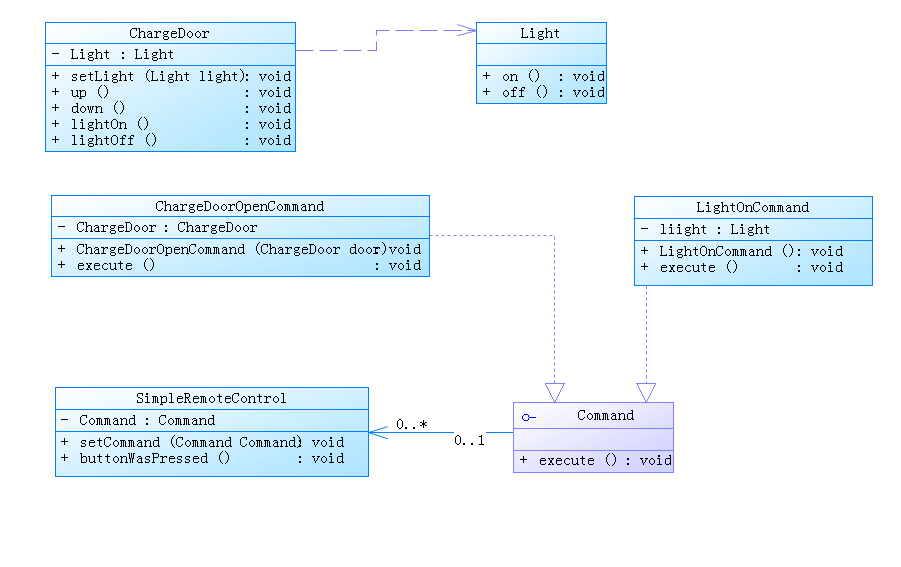
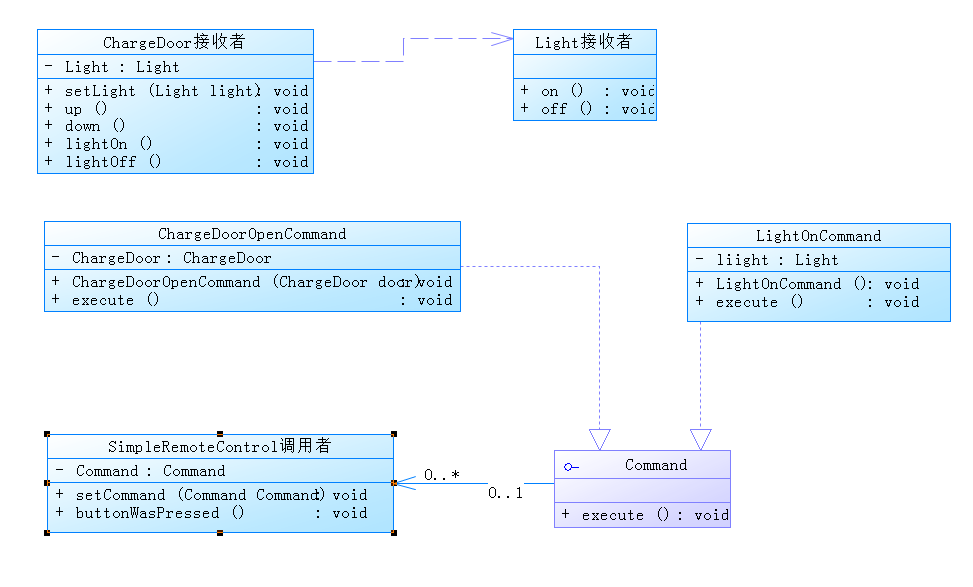
2017-7-12

diff --git a/src/designPattern/headfirst/chapter_06Command/anExample/RemoteControllerTest.java b/src/designPattern/headfirst/chapter_06Command/anExample/RemoteControllerTest.java
@@ -1,9 +1,9 @@
 package designPattern.headfirst.chapter_06Command.anExample;
 
-import designPattern.headfirst.chapter_06Command.anExample.client.ChargeDoor;
-import designPattern.headfirst.chapter_06Command.anExample.client.Light;
 import designPattern.headfirst.chapter_06Command.anExample.command.ChargeDoorOpenCommand;
 import designPattern.headfirst.chapter_06Command.anExample.command.LightOnCommand;
+import designPattern.headfirst.chapter_06Command.anExample.receiver.ChargeDoor;
+import designPattern.headfirst.chapter_06Command.anExample.receiver.Light;
 
 public class RemoteControllerTest {
 	public static void main(String[] args) {

diff --git a/src/designPattern/headfirst/chapter_06Command/anExample/command/ChargeDoorOpenCommand.java b/src/designPattern/headfirst/chapter_06Command/anExample/command/ChargeDoorOpenCommand.java
@@ -1,6 +1,6 @@
 package designPattern.headfirst.chapter_06Command.anExample.command;
 
-import designPattern.headfirst.chapter_06Command.anExample.client.ChargeDoor;
+import designPattern.headfirst.chapter_06Command.anExample.receiver.ChargeDoor;
 
 public class ChargeDoorOpenCommand implements Command {
 	ChargeDoor door;

diff --git a/src/designPattern/headfirst/chapter_06Command/anExample/SimpleRemoteControl.java b/src/designPattern/headfirst/chapter_06Command/anExample/SimpleRemoteControl.java
@@ -1,7 +1,12 @@
 package designPattern.headfirst.chapter_06Command.anExample;
 
 import designPattern.headfirst.chapter_06Command.anExample.command.Command;
-
+/**
+ * 调用者invoker
+ * @author ken
+ * 
+ * @date 2017年7月12日 上午9:39:54
+ */
 public class SimpleRemoteControl {
 	Command command;
 	

diff --git a/src/designPattern/headfirst/chapter_06Command/anExample/command/LightOnCommand.java b/src/designPattern/headfirst/chapter_06Command/anExample/command/LightOnCommand.java
@@ -1,6 +1,6 @@
 package designPattern.headfirst.chapter_06Command.anExample.command;
 
-import designPattern.headfirst.chapter_06Command.anExample.client.Light;
+import designPattern.headfirst.chapter_06Command.anExample.receiver.Light;
 
 public class LightOnCommand implements Command {
 	Light light;

diff --git a/src/designPattern/headfirst/chapter_06Command/anExample/receiver/ChargeDoor.java b/src/designPattern/headfirst/chapter_06Command/anExample/receiver/ChargeDoor.java
@@ -1,5 +1,10 @@
-package designPattern.headfirst.chapter_06Command.anExample.client;
-
+package designPattern.headfirst.chapter_06Command.anExample.receiver;
+/**
+ * 接收者
+ * @author ken
+ * 
+ * @date 2017年7月12日 上午9:41:37
+ */
 public class ChargeDoor {
 	Light light;
 	

diff --git a/src/designPattern/headfirst/chapter_06Command/anExample/receiver/Light.java b/src/designPattern/headfirst/chapter_06Command/anExample/receiver/Light.java
@@ -1,4 +1,4 @@
-package designPattern.headfirst.chapter_06Command.anExample.client;
+package designPattern.headfirst.chapter_06Command.anExample.receiver;
 
 public class Light {
 	public void on(){
